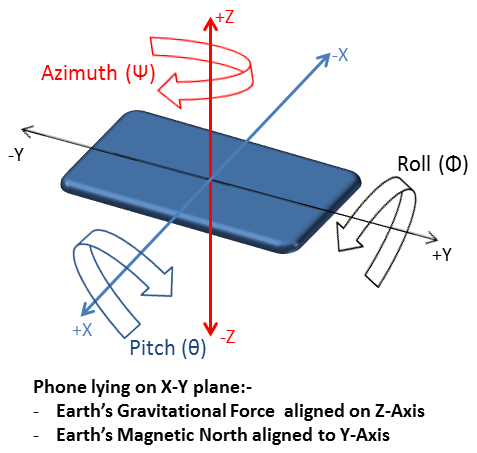
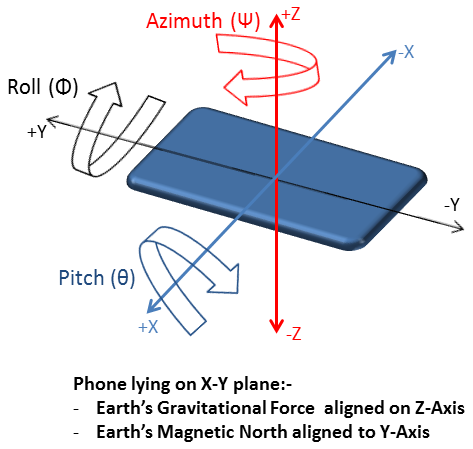
Adding configuration for gravity virtual sensor
- Adding configuration information for gravity virtual sensor
- Adding diagram for understanding gravity configuration
- Updated orientation sensor diagram to represent correct y-axis
  rotation.

diff --git a/Virtual_Sensor_Configuration.htm b/Virtual_Sensor_Configuration.htm
@@ -127,7 +127,7 @@ set to +1.</p>
 when the device azimuth is pointing north this value is set as +1. If the
 magnetic orientation of the device geomagnetic sensor points to south
 when the device azimuth is pointing north this value is set as -1. For both
-the settings the North->East->South->West rotation of the device results in
+the settings, the North->East->South->West rotation of the device results in
 positive change in geomagnetic sensor data values and North->West->South->East
 rotation results in a negative change in geomagnetic sensor data values.</p>
 
@@ -148,4 +148,49 @@ set to -1.</p>
 in the roll output this value is set to +1. If the clockwise roll rotation
 of the device results in negative increase in the roll output this value is
 set to -1.</p>
+
+<h2>2. Gravity Virtual Sensor</h2>
+
+<FIGURE>
+<img src="./device_gravity.png" width="30%" height="40%">
+</FIGURE><br>
+
+<h3>2.1 XML Code</h3>
+
+&lt;GRAVITY&gt;<br>
+&emsp;&lt;NAME value="GRAVITY_SENSOR" &gt;<br>
+&emsp;&lt;VENDOR value="SAMSUNG" &gt;<br>
+&emsp;&lt;RAW_DATA_UNIT value="M/S^2" &gt;<br>
+&emsp;&lt;DEFAULT_SAMPLING_TIME value="100" &gt;<br>
+&emsp;&lt;GRAVITY_SIGN_COMPENSATION value1="1" value2="1" value3="1" &gt;<br>
+&lt;GRAVITY&gt;<br>
+
+<h3>2.2 Description of Configuration in XML Code</h3>
+
+<p>Based on the configuration parameter there may be a single value or
+three values assigned. In case of three values, 'value1' represents X-axis
+component, 'value2' represents Y-axis component and 'value3' represents
+Z-axis component for any sensor.</p>
+
+<h4>2.2.1 NAME</h4>
+<p>Name of the Virtual Sensor</p>
+
+<h4>2.2.2 VENDOR</h4>
+<p>Name of the vendor who developed Gravity virtual sensor.</p>
+
+<h4>2.2.3 RAW_DATA_UNIT</h4>
+<p>Units for the raw data output from the Gravity virtual sensor. The
+unit options available are 'M/S^2'.</p>
+
+<h4>2.2.4 DEFAULT_SAMPLING_TIME</h4>
+<p>Default sampling interval (in msec) value at which the Gravity virtual
+sensor is initialized.</p>
+
+<h4>2.2.5 GRAVITY_SIGN_COMPENSATION</h4>
+<p>When the device orientation on a specific axis changes from 0 to
+&#928/2 and the gravity component for the orthogonal axis changes from 0
+to +G, the orthogonal axis gravity component is set to +1. When the device
+orientation on a specific axis changes from 0 to &#928/2 and the gravity
+component for the orthogonal axis changes from 0 to -G, the orthogonal axis
+gravity component value is set to -1.</p>
 </html>
